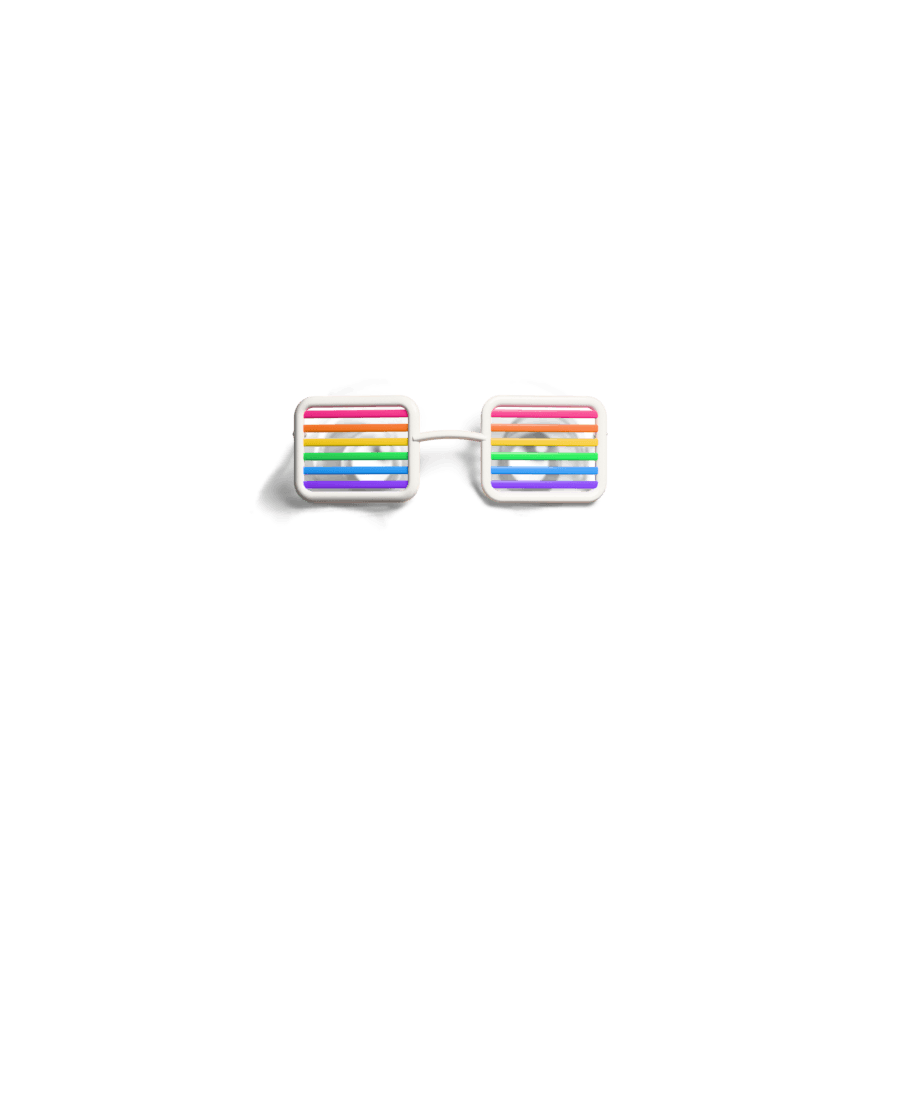
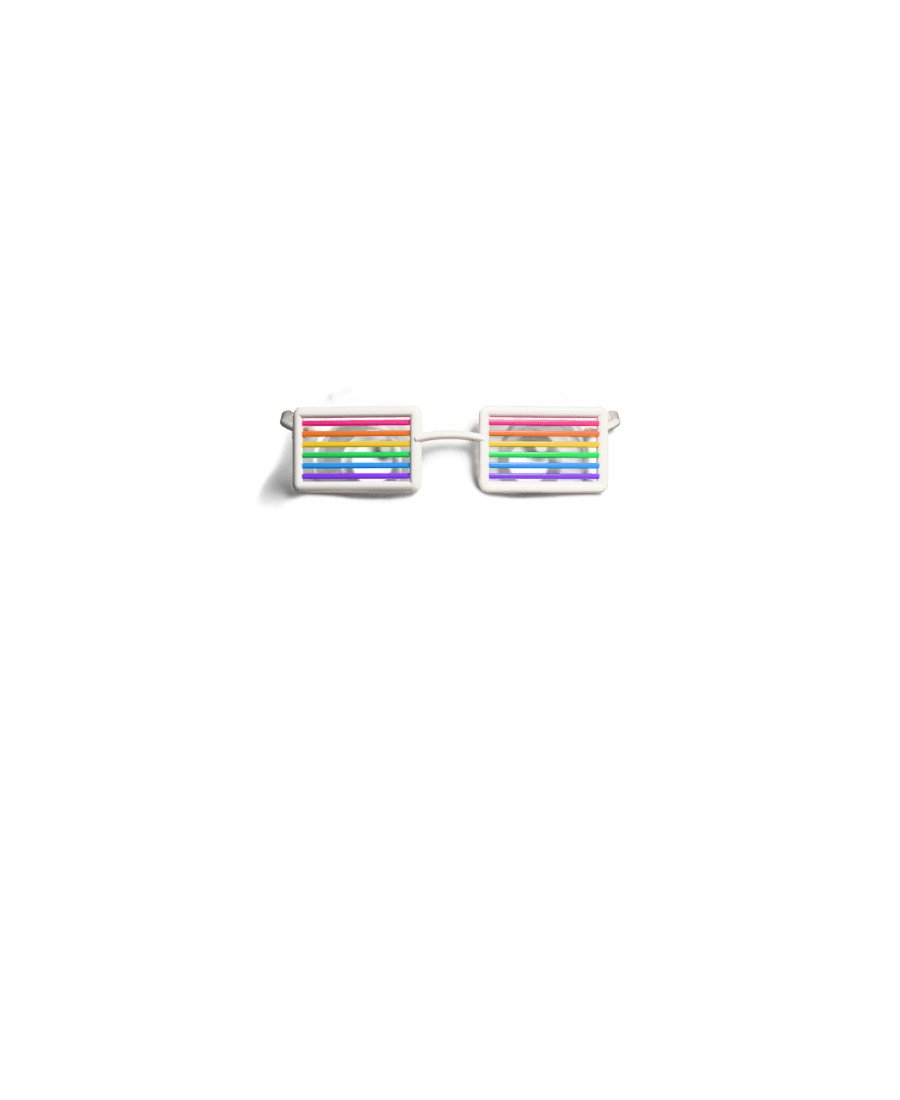
Rabi'yi Giydir: Disko Gözlüğü dikdörtgen bölmeler ve görünür saplar

Changed region(s): [[0.28, 0.34, 0.6844, 0.4945]]

diff --git a/docs/kurallar/maskot-ve-ikon.md b/docs/kurallar/maskot-ve-ikon.md
@@ -133,6 +133,12 @@ Rabi proje kurallarının bir parçası — dizin ve genel kurallar: [AGENTS.md]
     her göz bölmesinde 6 yatay neon çubuk (pembe→mor). Çubuk sayısı **çift** olmalı: ortadaki
     boşluk gözün hizasına denk gelir, tek sayıda orta çubuk gözü kapatıyordu. Yerleşim güneş
     gözlüğüyle aynı ölçüden (`gozluk_yerlesimi`). `disko_kur.py` → `rabi_giydir_disko.blend`
+    Göz bölmeleri **belirgin dikdörtgen** (en/boy ≈ 1,7, köşe yarıçapı 6 mm; yuvarlak köşe
+    elips gibi okunuyordu), **saplar görünür** (kullanıcı istedi, 2026-11-09; güneş gözlüğündeki
+    "sap başa dalar" kuralının istisnası): menteşeden başın yan yüzeyini izleyip kulak köküne
+    yükselir, yüzeyden ışın atılarak ölçülen 16 mm üstten gider (6 mm'de baş konturunun
+    arkasında kalıp neredeyse görünmüyordu); önden yalnız dışa taşan kıvrım seçilir.
+    `disko_kur.py` → `rabi_giydir_disko.blend`
     (`rabi_giydir7.blend`ten türer), `disko_katman.py` (`katman4.py` kopyası), `disko_sikistir.mjs`.
   - Kulaklık: bant kulakların önünden geçer; kabuk kafanın **yüzey normaline** göre
     oturur (sabit açıyla yastık bir kenardan havada kalıyordu).
